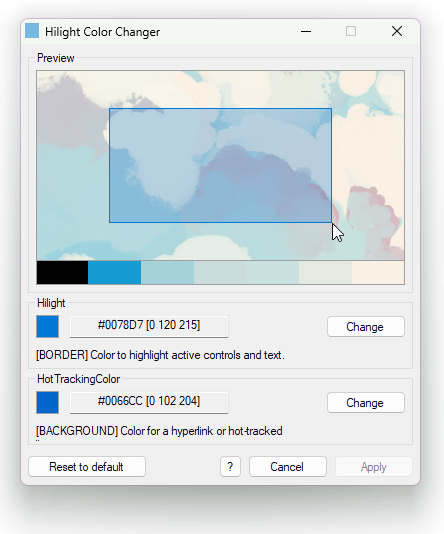
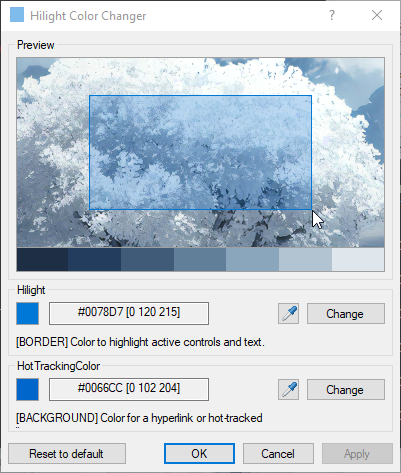
README.md updated

diff --git a/README.md b/README.md
@@ -1,4 +1,4 @@
-<img width="320" align="right" src="README-SRC/screenshot.png">
+<img width="320" style="padding-left: 20px" align="right" src="README-SRC/screenshot.png">
 
 [![C](https://img.shields.io/badge/c-%2300599C.svg?style=for-the-badge&logo=c&logoColor=white)](https://github.com/n0dere/HiCC/search?l=c)
 [![Windows](https://img.shields.io/badge/Windows-0078D6?style=for-the-badge&logo=windows&logoColor=white)](https://www.microsoft.com/en-us/windows)
@@ -11,6 +11,8 @@
 - Choose a color from the palette that is automatically created based on your desktop wallpaper. Just click on any color in the palette and it will become the new selection color.
 - Return to the default color settings at any time by clicking the "Reset to default" button.
 - HiCC is licensed under the [GNU GPL v3](COPYING) (100% open source)
+- Pick a color from anywhere on the screen to use as your the selection color.
+- [Wallpaper Engine](https://www.wallpaperengine.io) wallpaper support!
 
 ## Build
 1. Clone the project repository, or download a zip archive with sources and unpack them.

diff --git a/SRC/RES/README.md b/SRC/RES/README.md
@@ -1,0 +1,3 @@
+# Resources
+
+eyedropper [icon](eyedropper.ico) and [cursor](eyedropper.cur) taken from MSPaint.exe
